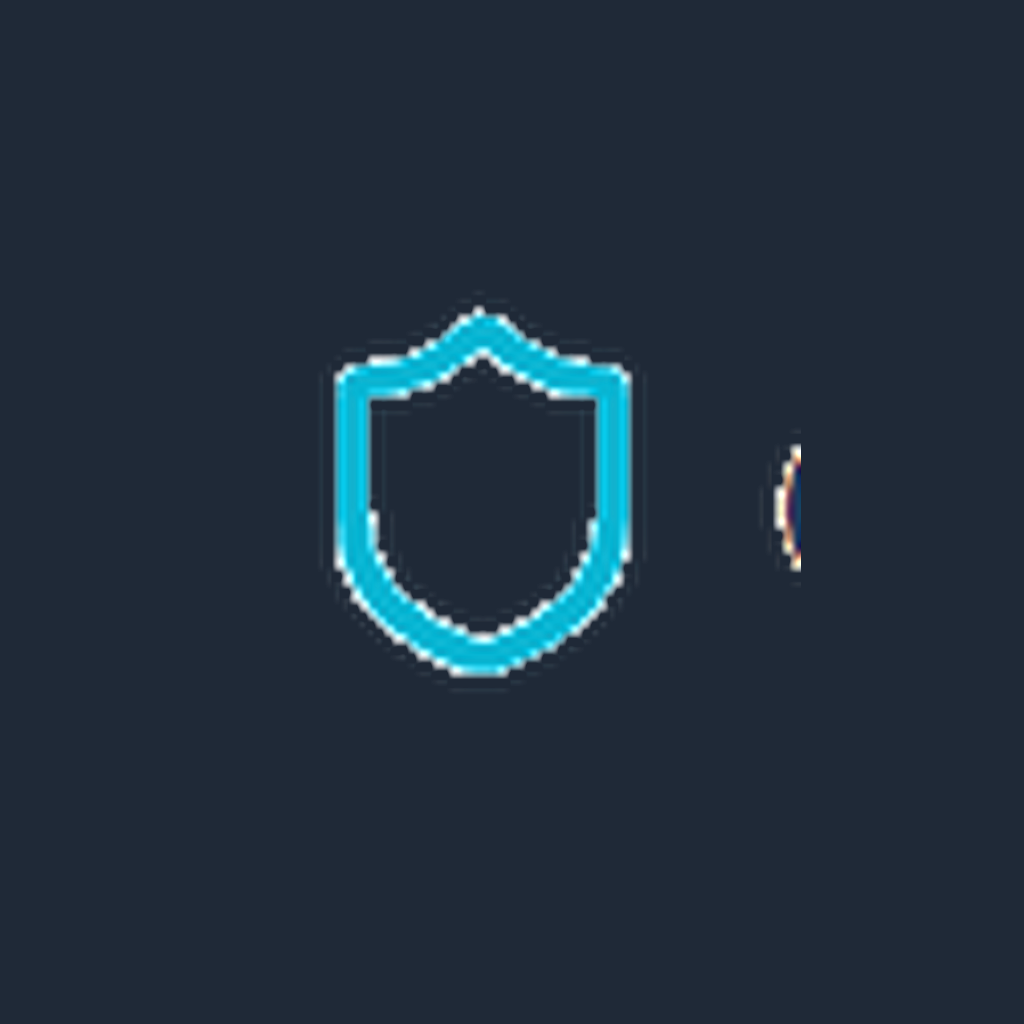
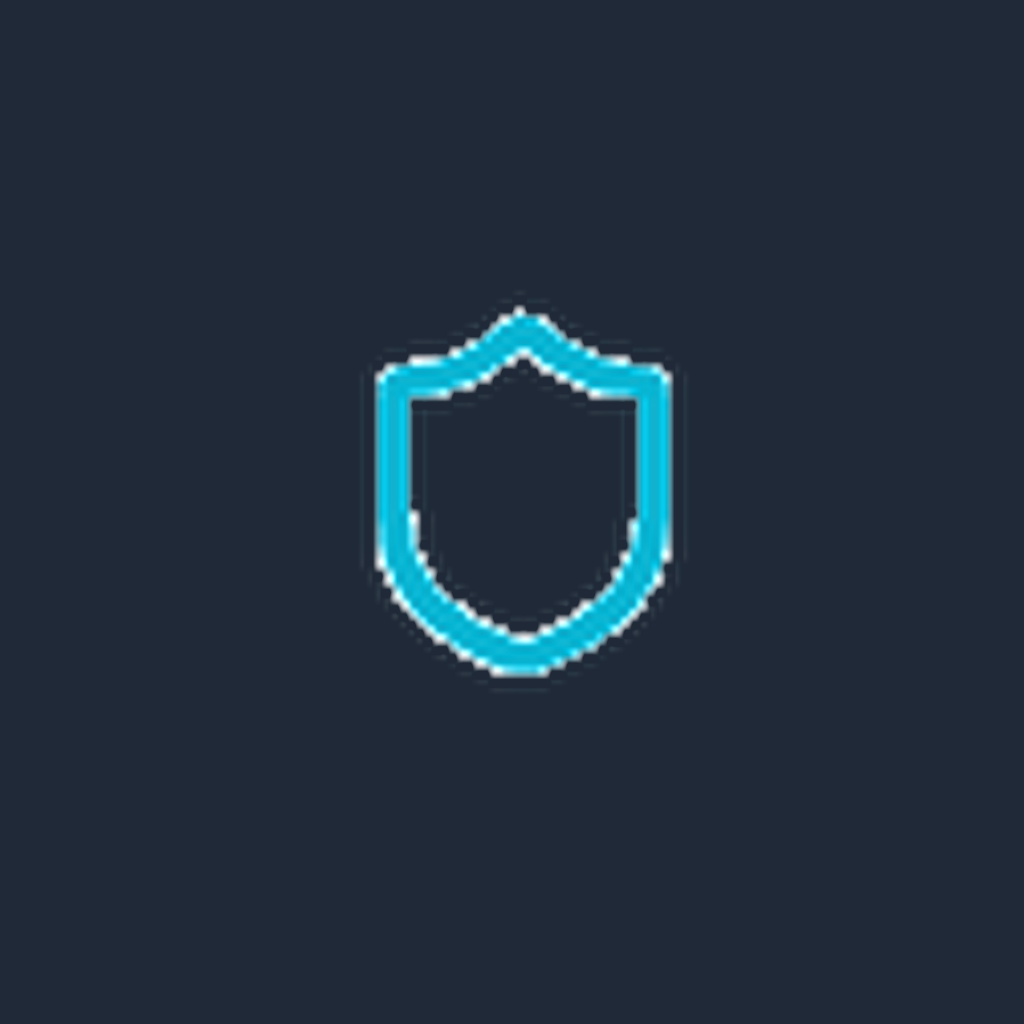
auto-commit for 6df7041c-81bc-4948-9b58-a1e2fa43fc06

Changed region(s): [[0.3125, 0.2812, 0.6562, 0.6875], [0.75, 0.4375, 0.7812, 0.5625]]

diff --git a/frontend/public/icons-preview.html b/frontend/public/icons-preview.html
@@ -1,34 +1,33 @@
 <!DOCTYPE html>
 <html>
-<head>
-    <title>OhmGuard Icons Preview</title>
-    <style>
-        body { background: #1a1a2e; color: white; font-family: Arial; padding: 40px; text-align: center; }
-        .icons { display: flex; justify-content: center; gap: 60px; flex-wrap: wrap; margin-top: 40px; }
-        .icon-box { text-align: center; background: #16213e; padding: 30px; border-radius: 20px; }
-        .icon-box img { border-radius: 20px; box-shadow: 0 10px 30px rgba(0,188,212,0.3); }
-        h1 { color: #00BCD4; }
-        h3 { margin-top: 20px; color: #888; }
-        .notif-bg { background: #333; padding: 20px; border-radius: 10px; display: inline-block; }
-    </style>
+<head><title>OhmGuard Icons</title>
+<style>
+body { background: #1a1a2e; color: white; font-family: Arial; padding: 40px; text-align: center; }
+.icons { display: flex; justify-content: center; gap: 50px; flex-wrap: wrap; margin-top: 30px; }
+.icon-box { text-align: center; background: #16213e; padding: 25px; border-radius: 20px; }
+.icon-box img { border-radius: 20px; box-shadow: 0 8px 25px rgba(0,188,212,0.3); }
+h1 { color: #00BCD4; }
+h3 { margin-top: 15px; color: #888; font-size: 14px; }
+.notif-bg { background: #333; padding: 15px; border-radius: 10px; display: inline-block; }
+</style>
 </head>
 <body>
-    <h1>OhmGuard Icons - Votre Logo (Corrigé)</h1>
-    <div class="icons">
-        <div class="icon-box">
[1 lines of base64/hex data omitted]
-            <h3>icon.png<br>(App Icon)</h3>
-        </div>
-        <div class="icon-box">
[1 lines of base64/hex data omitted]
-            <h3>adaptive-icon.png<br>(Android)</h3>
-        </div>
-        <div class="icon-box">
-            <div class="notif-bg">
[1 lines of base64/hex data omitted]
-            </div>
-            <h3>notification-icon.png<br>(Notifications)</h3>
-        </div>
-    </div>
+<h1>✅ OhmGuard Icons - Final</h1>
+<div class="icons">
+<div class="icon-box">
[1 lines of base64/hex data omitted]
+<h3>icon.png<br>(App Icon)</h3>
+</div>
+<div class="icon-box">
[1 lines of base64/hex data omitted]
+<h3>adaptive-icon.png<br>(Android)</h3>
+</div>
+<div class="icon-box">
+<div class="notif-bg">
[1 lines of base64/hex data omitted]
+</div>
+<h3>notification-icon.png<br>(Notifications)</h3>
+</div>
+</div>
 </body>
 </html>
